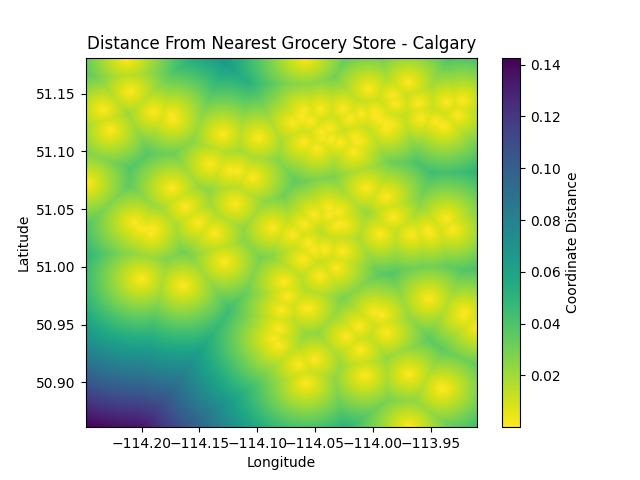
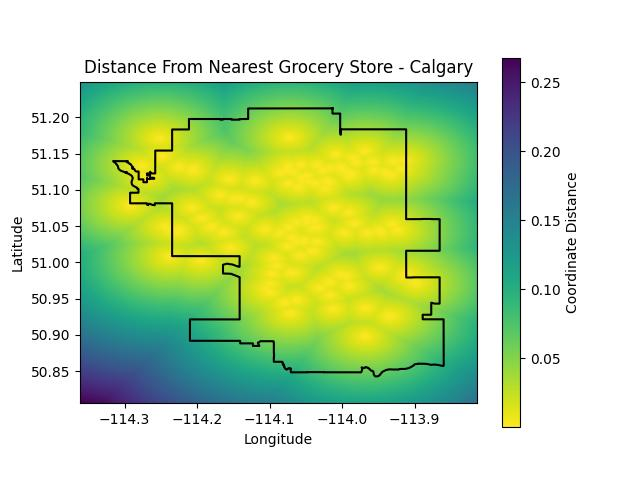
Added boundaries to processing and plot

diff --git a/data/plotting.py b/data/plotting.py
@@ -2,15 +2,25 @@ import matplotlib.pyplot as plt
 import numpy as np
 import pandas as pd
 from itertools import product
+from boundary import edmontonBoundary, calgaryBoundary
 
-def makeFDPlot(sourceFile, city, longkey, latkey):
+def makeFDPlot(sourceFile, city, longkey, latkey, boundary):
     dataFrame = pd.read_csv(sourceFile)
     longitude = dataFrame[longkey].values
     latitude = dataFrame[latkey].values
 
-    longrange = [min(longitude), max(longitude)]
-    latrange = [min(latitude), max(latitude)]
+    longbound, latbound = boundary
 
+    extendRatio = 0.1
+    longrange = [min(longbound), max(longbound)]
+    longdiff = longrange[1]-longrange[0]
+    longrange[0] -= extendRatio*longdiff
+    longrange[1] += extendRatio*longdiff
+
+    latrange = [min(latbound), max(latbound)]
+    latdiff = latrange[1] - latrange[0]
+    latrange[0] -= extendRatio*latdiff
+    latrange[1] += extendRatio*latdiff
     longval = np.linspace(*longrange, 500)
     latval = np.linspace(*latrange, 500)
 
@@ -24,7 +34,7 @@ def makeFDPlot(sourceFile, city, longkey, latkey):
         dist = np.sqrt(loDist**2 + laDist**2)
         distMesh[i][j] = np.min(dist)
     plt.imshow(distMesh,
-               interpolation='spline36',
+               #interpolation='spline36',
                origin='lower',
                cmap=plt.cm.get_cmap('viridis_r'),
                extent=longrange+latrange)
@@ -33,7 +43,9 @@ def makeFDPlot(sourceFile, city, longkey, latkey):
     plt.title(f'Distance From Nearest Grocery Store - {city}')
     cbar = plt.colorbar()
     cbar.ax.set_ylabel('Coordinate Distance')
+    plt.plot(longbound, latbound, color='black')
     plt.savefig(f'plots/{city}Plot.jpg')
+    plt.clf()
 
-makeFDPlot('cleandata/calgary.csv', 'Calgary', 'longitude', 'latitude')
-makeFDPlot('cleandata/edmonton.csv', 'Edmonton', 'Longitude', 'Latitude')
+makeFDPlot('cleandata/calgary.csv', 'Calgary', 'longitude', 'latitude', calgaryBoundary)
+makeFDPlot('cleandata/edmonton.csv', 'Edmonton', 'Longitude', 'Latitude', edmontonBoundary)

diff --git a/data/boundary.py b/data/boundary.py
@@ -1,0 +1,37 @@
+import pandas as pd
+import numpy as np
+
+def cityBoundary(srcFile,key):
+    bFrame = pd.read_csv(srcFile)
+    polygonString = bFrame[key].values[0]
+    polygonString = polygonString.lstrip('MULTIPOLYGON (((')
+    polygonString = polygonString.rstrip(')))')
+    coordPairs = polygonString.split(', ')
+    coordPairs = [pair.split(' ') for pair in coordPairs]
+    longVal = np.array([float(pair[0]) for pair in coordPairs])
+    latVal = np.array([float(pair[1]) for pair in coordPairs])
+    return longVal, latVal
+
+def withinPolygon(x,y,polyX, polyY):
+
+    n = len(polyX)
+    inside = False
+
+    p1x = polyX[0]
+    p1y = polyY[0]
+    for i in range(n+1):
+        p2x = polyX[i % n]
+        p2y = polyY[i % n]
+        if y > min(p1y,p2y):
+            if y <= max(p1y,p2y):
+                if x <= max(p1x,p2x):
+                    if p1y != p2y:
+                        xints = (y-p1y)*(p2x-p1x)/(p2y-p1y)+p1x
+                    if p1x == p2x or x <= xints:
+                        inside = not inside
+        p1x,p1y = p2x,p2y
+    return inside
+
+
+calgaryBoundary = cityBoundary('rawdata/calgaryBoundary.csv','MULTIPOLYGON')
+edmontonBoundary = cityBoundary('rawdata/edmontonBoundary.csv', 'the_geom')
